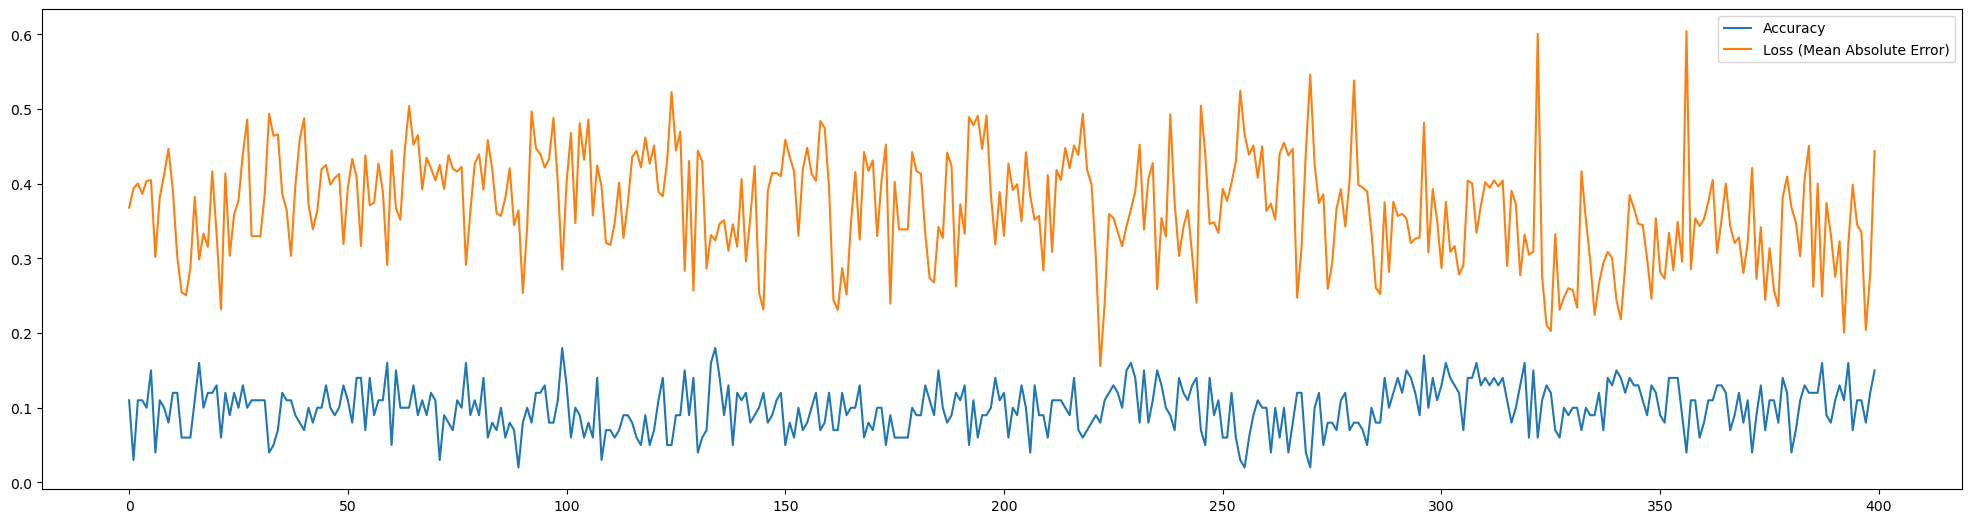
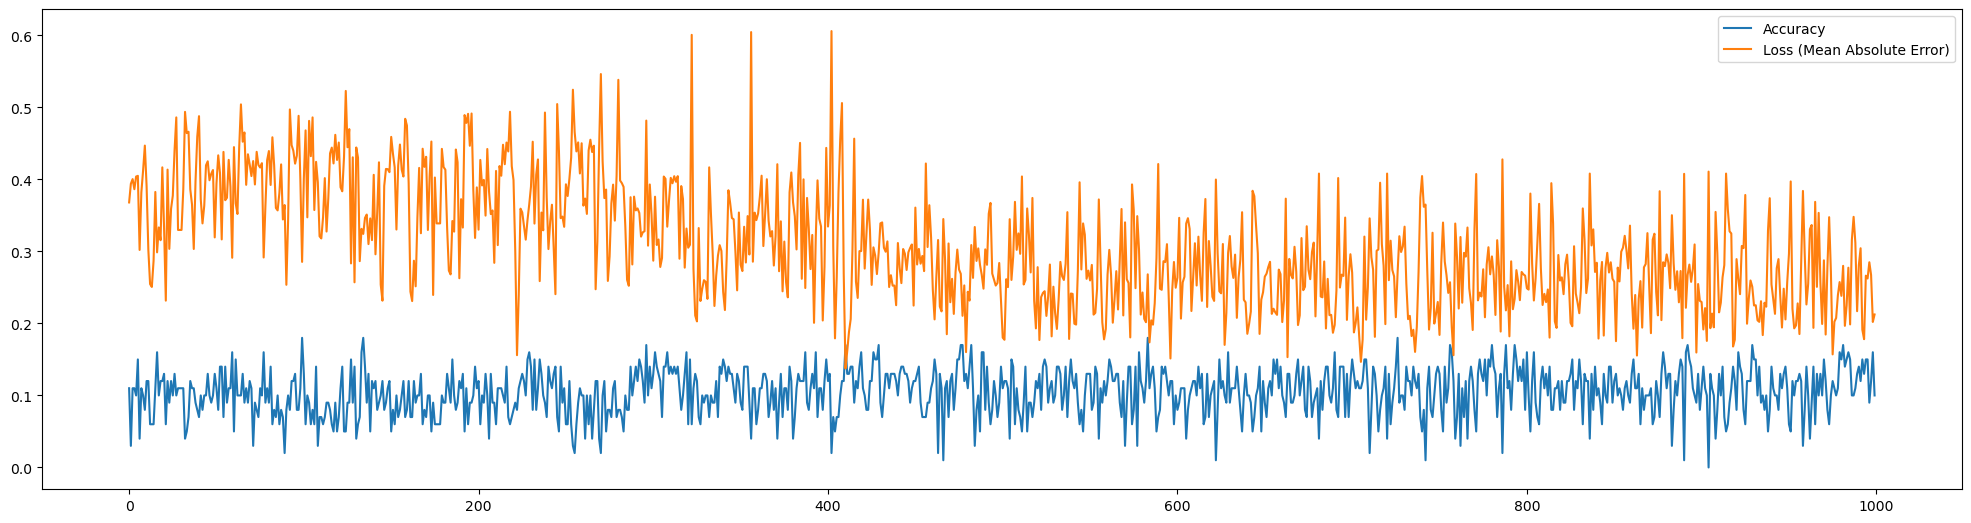
1000 epochs graph

diff --git a/README.md b/README.md
@@ -4,7 +4,7 @@ An *experimental* neural network library.
 
 ## Goals
 
-- *Not* using a retropropagation algorithm for training. Retropropagation works pretty well but the main goal of this project is to find a training algorithm that would work using only the information available *locally* to the nodes. Current status: not working 😅, as you can see with these non-concluding learning curves: ![Learning curves](learning.png) The current algorithm is based on the simple Hebbian learning rule *"Nodes that fire together, wire together."*, meaning that the weight between a sending and a receiving node increases if the two nodes are active at the same time.
+- *Not* using a retropropagation algorithm for training. Retropropagation works pretty well but the main goal of this project is to find a training algorithm that would work using only the information available *locally* to the nodes. Current status: not working 😅, as the learning curves reach a plateau: ![Learning curves](learning.png) The current algorithm is based on the simple Hebbian learning rule *"Nodes that fire together, wire together."*, meaning that the weight between a sending and a receiving node increases if the two nodes are active at the same time.
 - Using bit shifting instead of multiplication for faster computations. A kind of generalization of [BitNet b1.58](https://arxiv.org/pdf/2402.17764).
 - Written in [Futhark](https://futhark-lang.org/) to leverage OpenCL for GPU acceleration.
 - Python API similar to [TensorFlow](https://www.tensorflow.org/).
